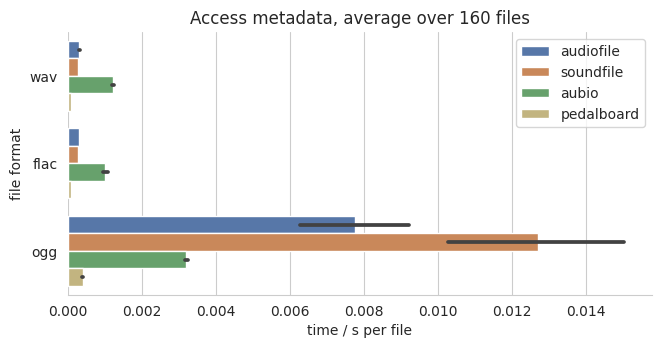
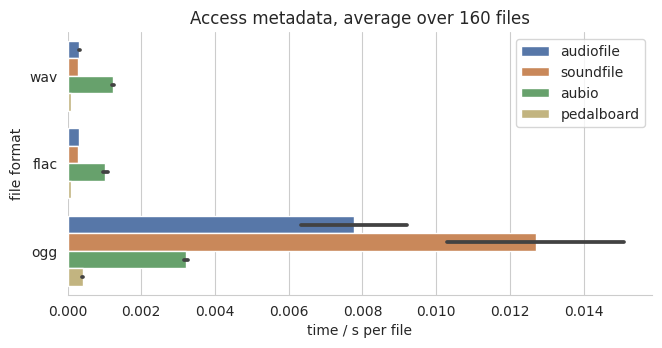
Adjust plot order and add text

diff --git a/docs/benchmark/plot.py b/docs/benchmark/plot.py
@@ -44,8 +44,8 @@ for package in ['read', 'info']:
                 MAPPINGS['soundfile'],
                 MAPPINGS['aubio'],
                 MAPPINGS['librosa'],
-                MAPPINGS['pedalboard'],
                 MAPPINGS['ar_ffmpeg'],
+                MAPPINGS['pedalboard'],
                 MAPPINGS['scipy'],
             ]
             height = 5.6
@@ -64,9 +64,9 @@ for package in ['read', 'info']:
                 MAPPINGS['audiofile'],
                 MAPPINGS['aubio'],
                 MAPPINGS['librosa'],
-                MAPPINGS['pedalboard'],
                 MAPPINGS['ar_ffmpeg'],
                 MAPPINGS['ar_mad'],
+                MAPPINGS['pedalboard'],
             ]
             height = 3.36
             aspect = 2.0
@@ -75,9 +75,9 @@ for package in ['read', 'info']:
                 MAPPINGS['audiofile'],
                 MAPPINGS['audiofile_sloppy'],
                 MAPPINGS['aubio'],
-                MAPPINGS['pedalboard'],
                 MAPPINGS['ar_ffmpeg'],
                 MAPPINGS['ar_mad'],
+                MAPPINGS['pedalboard'],
                 MAPPINGS['sox'],
             ]
             height = 3.7

diff --git a/docs/benchmark.rst b/docs/benchmark.rst
@@ -34,6 +34,7 @@ The following Python packages are benchmarked against each other:
 * audioread_ 2.1.9
 * :mod:`audiofile` 1.1.0
 * librosa_ 0.9.1
+* pedalboard_ 0.5.3
 * scipy_ 1.8.0
 * soundfile_ 0.10.3.post1
 * sox_ 1.4.1
@@ -126,7 +127,7 @@ Reading files
 
 soundfile_ does not support
 reading MP3 and MP4 files,
-audioread_ (mad) only MP3 files.
+audioread_ (mad) and pedalboard_ only MP3 files.
 
 .. image:: ./benchmark/results/benchmark_mp3-mp4_read.png
 
@@ -135,7 +136,7 @@ Accessing metadata
 
 soundfile_ does not support
 accessing MP3 and MP4 metadata.
-sox_ and audioread_ (mad) only for MP3 files.
+sox_, audioread_ (mad) and pedalboard_ only for MP3 files.
 
 .. image:: ./benchmark/results/benchmark_mp3-mp4_info.png
 
@@ -158,6 +159,7 @@ in the figure.
 .. _gstreamer: https://gstreamer.freedesktop.org/
 .. _librosa: https://github.com/librosa/librosa/
 .. _mad: https://sourceforge.net/projects/mad/
+.. _pedalboard: https://github.com/spotify/pedalboard
 .. _scipy: https://docs.scipy.org/doc/scipy/reference/generated/scipy.io.wavfile.read.html
 .. _soundfile: https://github.com/bastibe/SoundFile/
 .. _sox: https://github.com/rabitt/pysox/
